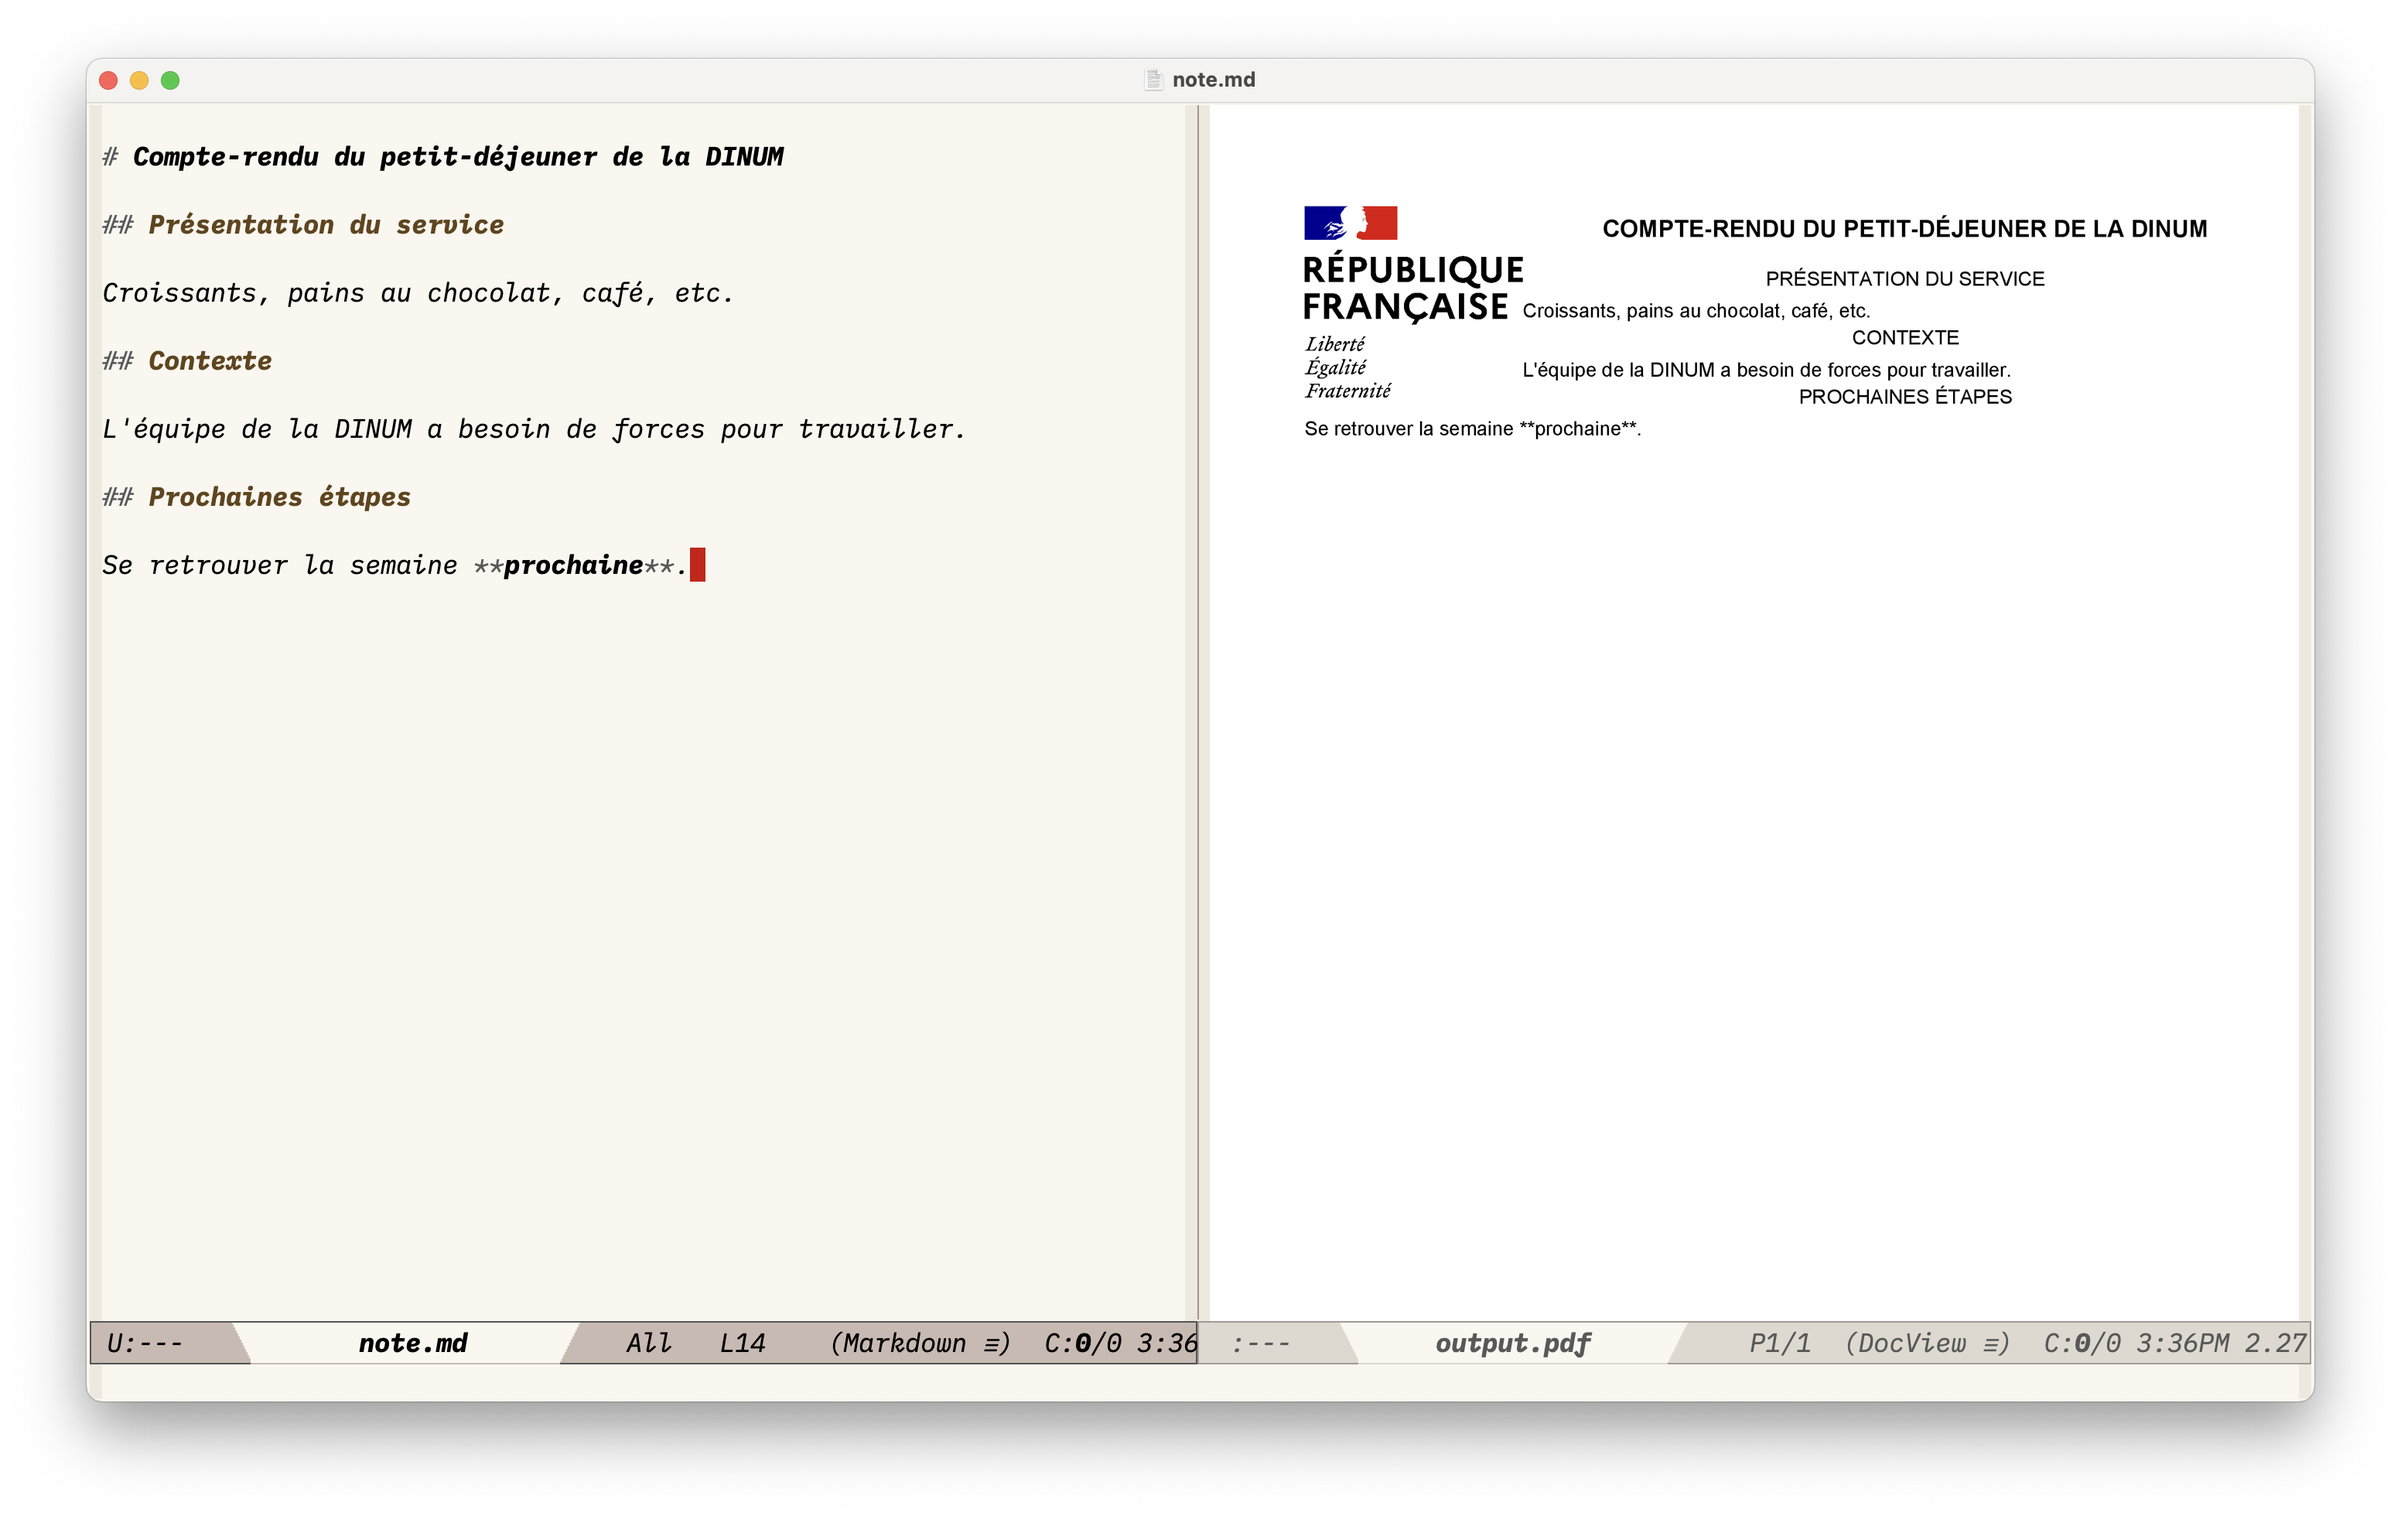
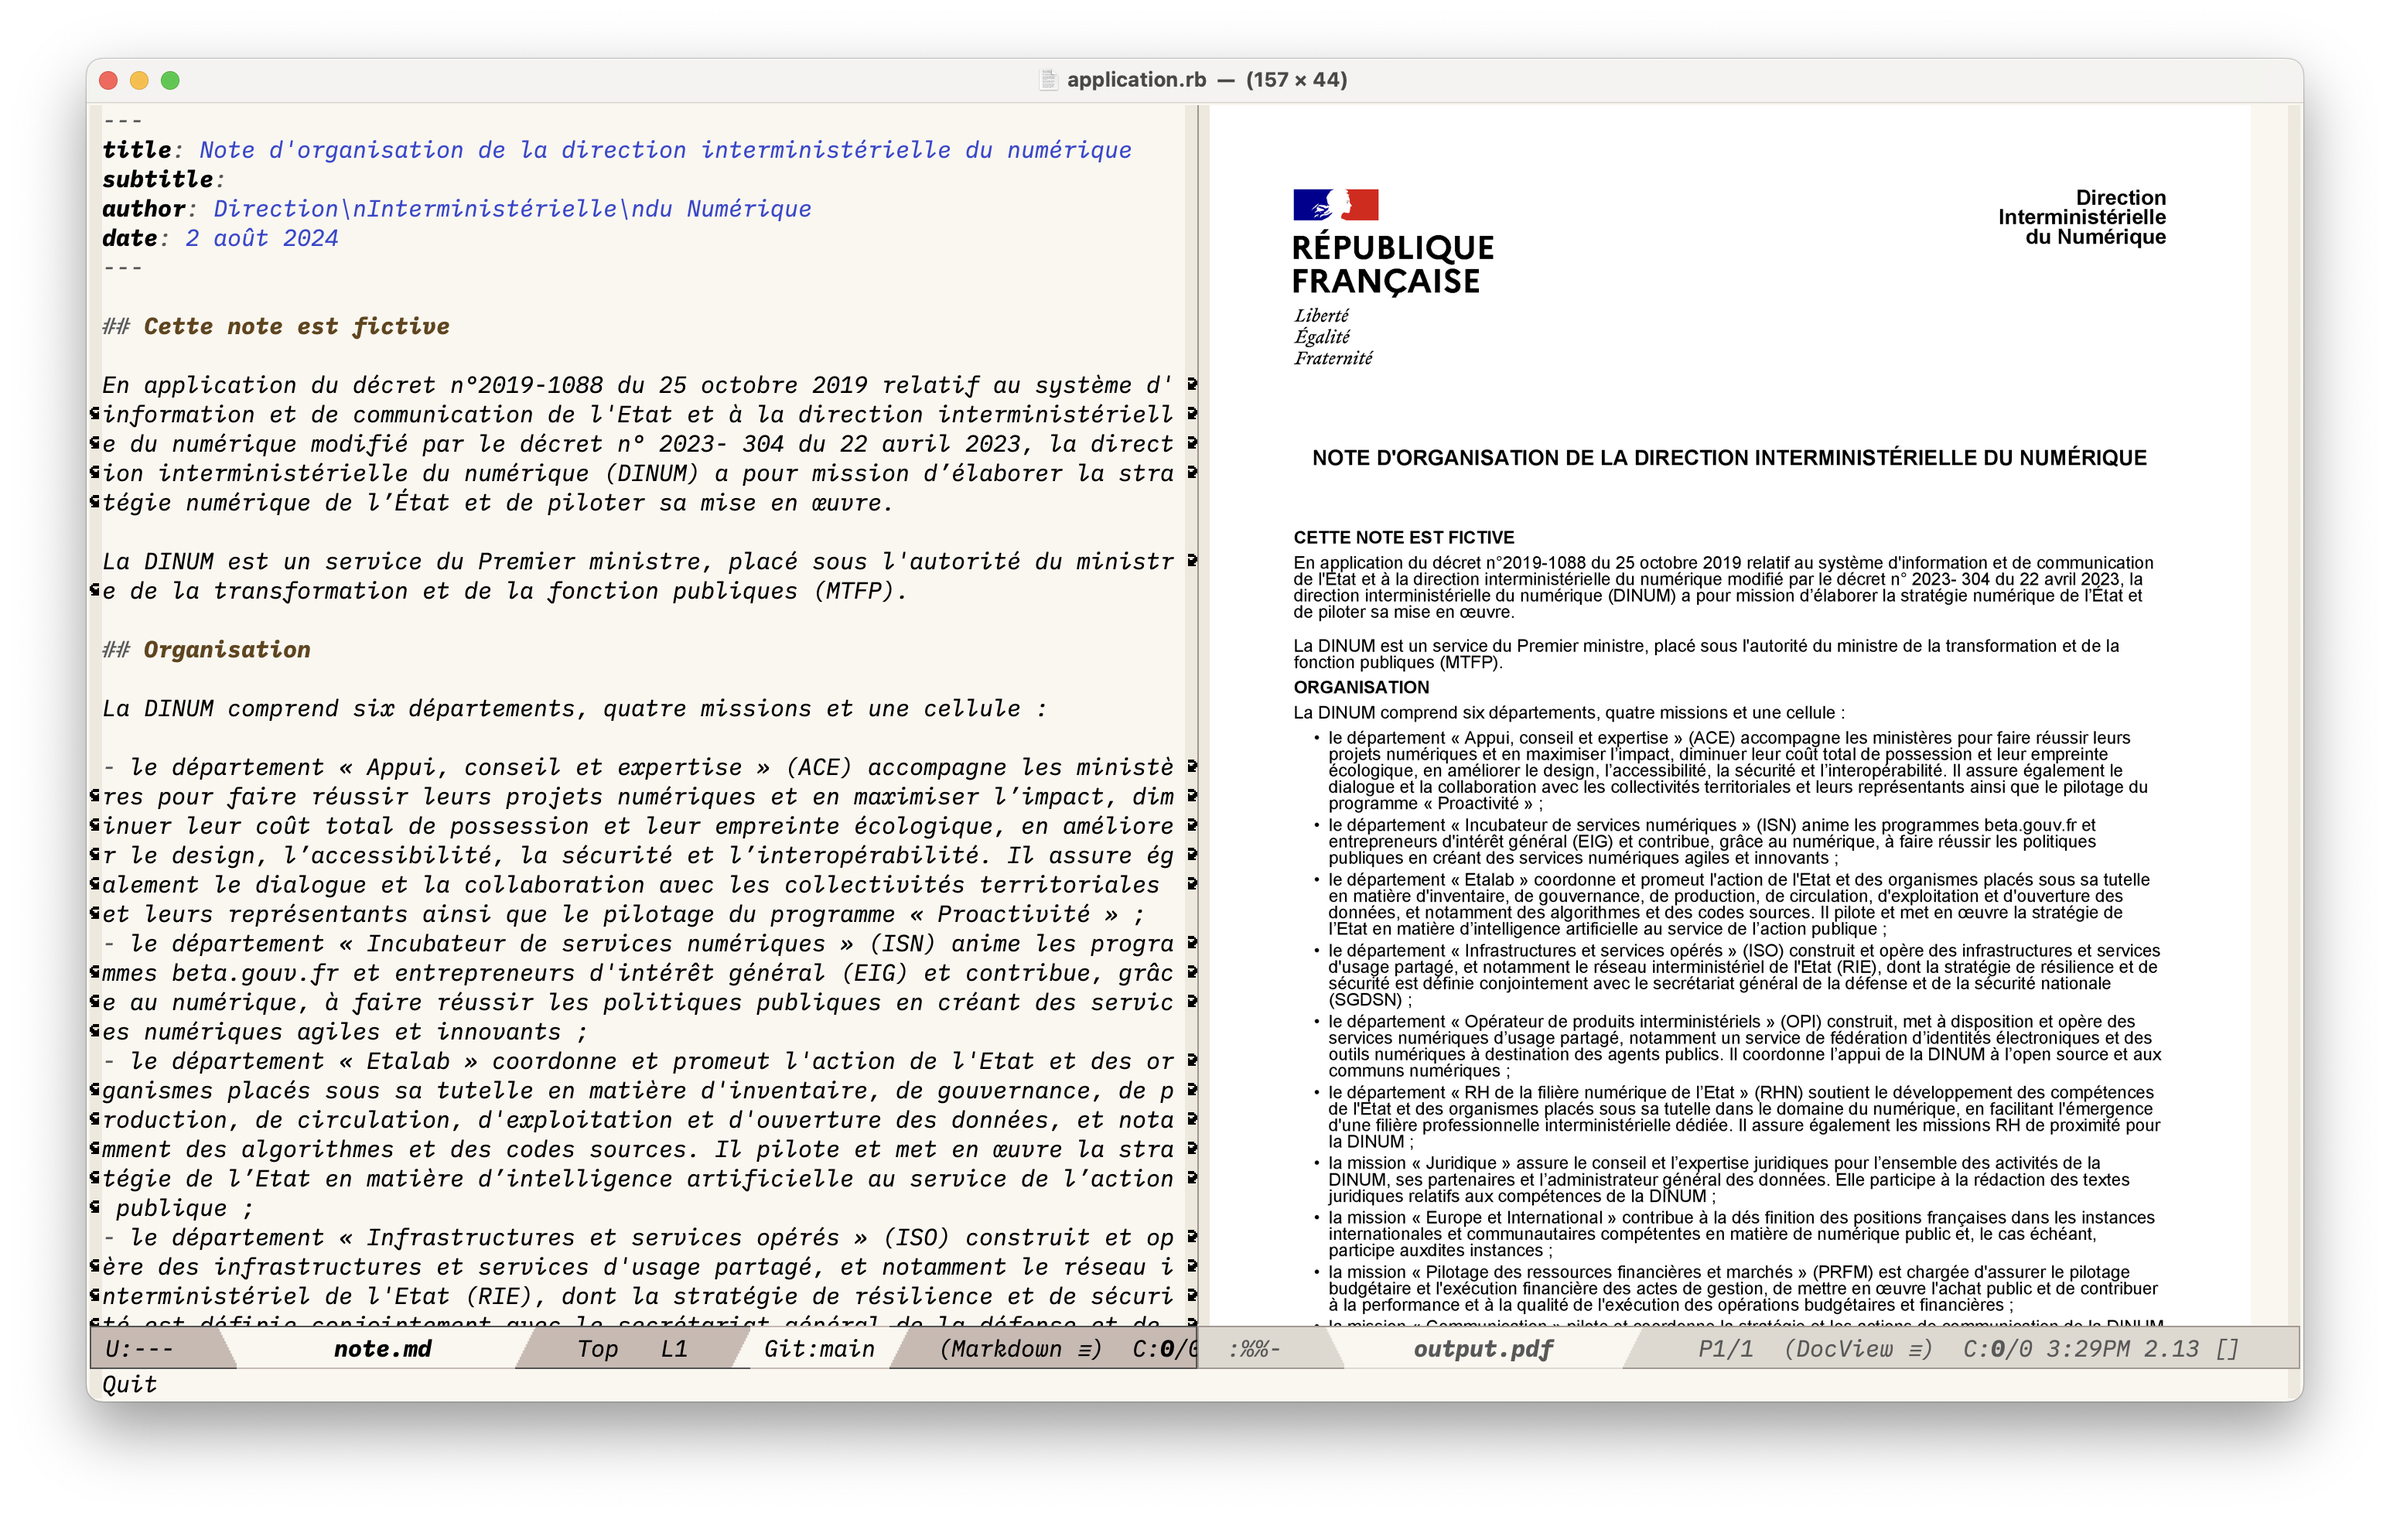
doc: general, random updates

diff --git a/lib/templates/base.rb b/lib/templates/base.rb
@@ -16,19 +16,34 @@ module Paperasse
     def initialize(data)
       @composer = HexaPDF::Composer.new(page_size: :A4, margin: 48)
 
-      @title = data[:title]
-      @subtitle = data[:subtitle]
+      @data = data
+
+      @title = data["title"]
+      @subtitle = data["subtitle"]
 
       setup_fonts!
       setup_style!
 
+      # @composer.document.config['debug'] = true
       super()
     end
 
     def doc_header
-      @composer.image('./logo.png', height: 100, position: :float)
+      @composer.container do |container|
+        container.image('./logo.png', height: 100, style: { mask_mode: :box })
+        container.text(author, text_align: :right, font: ['Arial', { variant: :bold }], font_size: 12)
+      end
+
+      @composer.container(style: { padding: [49, 0, 35, 0] }) do |container|
+        container.text(@title.upcase, style: :title) # don't upcase, style it
+        container.text(@subtitle, style: :subtitle) unless @subtitle.nil?
+      end
 
       nil
+    end
+
+    def author
+      "Direction\nInterministérielle\ndu Numérique"
     end
 
     def header(title, level)
@@ -36,30 +51,20 @@ module Paperasse
       when 1
         @composer.text(title.upcase, style: :title, margin: [150, 0, 0, 0])
       when 2
-        @composer.text(title.upcase, style: :subtitle)
+        @composer.text(title.upcase, style: :paragraph_title)
       end
 
       nil
     end
 
     def list_item(text, _list_type)
-      composer.list { |l| l.text(text) }
-
-      nil
-    end
-
-    def double_emphasis(text)
-      nil
-    end
-
-    def emphasis(text)
-      composer.text(text, style: :bold)
+      composer.list { |l| l.text(text, margin: [3, 0]) }
 
       nil
     end
 
     def paragraph(text)
-      composer.text(text)
+      composer.text(text, style: :base, margin: [5, 0])
 
       nil
     end
@@ -87,8 +92,8 @@ module Paperasse
     # some/path/Arial Bold Italic.tff => :bold_italic
     def infer_variant(filename)
       components = File.basename(filename, '.*')
-                     .split
-                     .slice(1..)
+                       .split
+                       .slice(1..)
 
       return nil if components.empty?
 
@@ -96,11 +101,11 @@ module Paperasse
     end
 
     def setup_style!
-      composer.style(:base, font: 'Arial', font_size: 10, line_spacing: 1.3, last_line_gap: true, padding: [3, 0, 0, 0])
-      composer.style(:title, font: ['Arial', { variant: :bold }], font_size: 12, align: :center, padding: [10, 0])
+      composer.style(:base, font: 'Arial', font_size: 10, last_line_gap: true)
+      composer.style(:title, font: ['Arial', { variant: :bold }], font_size: 12, align: :center)
       composer.style(:direction, font_size: 12, align: :right)
-      composer.style(:subtitle, align: :center, padding: [0, 30], line_height: 12)
-      composer.style(:paragraph_title, font: ['Arial', { variant: :bold }], font_size: 10, margin: [10, 0, 0, 0])
+      composer.style(:subtitle, align: :center, line_height: 12)
+      composer.style(:paragraph_title, font: ['Arial', { variant: :bold }], font_size: 10)
       composer.style(:legal, font: ['Arial', { variant: :italic }])
       composer.style(:bold, font: ['Arial', { variant: :bold }])
     end

diff --git a/note.md b/note.md
@@ -1,19 +1,30 @@
 ---
-title: Le titre du document
-subtitle: Le sous-titre du doc
-author: Marie Curie
+title: Note d'organisation de la direction interministérielle du numérique
+subtitle:
+author: Direction\nInterministérielle\ndu Numérique
+date: 2 août 2024
 ---
 
-# Compte-rendu du petit-déjeuner de la DINUM
+## Cette note est fictive
 
-## Présentation du service
+En application du décret n°2019-1088 du 25 octobre 2019 relatif au système d'information et de communication de l'Etat et à la direction interministérielle du numérique modifié par le décret n° 2023- 304 du 22 avril 2023, la direction interministérielle du numérique (DINUM) a pour mission d’élaborer la stratégie numérique de l’État et de piloter sa mise en œuvre.
 
-Croissants, pains au chocolat, café, etc.
+La DINUM est un service du Premier ministre, placé sous l'autorité du ministre de la transformation et de la fonction publiques (MTFP).
 
-## Contexte
+## Organisation
 
-L'équipe de la DINUM a besoin de forces pour travailler.
+La DINUM comprend six départements, quatre missions et une cellule :
 
-## Prochaines étapes
+- le département « Appui, conseil et expertise » (ACE) accompagne les ministères pour faire réussir leurs projets numériques et en maximiser l’impact, diminuer leur coût total de possession et leur empreinte écologique, en améliorer le design, l’accessibilité, la sécurité et l’interopérabilité. Il assure également le dialogue et la collaboration avec les collectivités territoriales et leurs représentants ainsi que le pilotage du programme « Proactivité » ;
+- le département « Incubateur de services numériques » (ISN) anime les programmes beta.gouv.fr et entrepreneurs d'intérêt général (EIG) et contribue, grâce au numérique, à faire réussir les politiques publiques en créant des services numériques agiles et innovants ;
+- le département « Etalab » coordonne et promeut l'action de l'Etat et des organismes placés sous sa tutelle en matière d'inventaire, de gouvernance, de production, de circulation, d'exploitation et d'ouverture des données, et notamment des algorithmes et des codes sources. Il pilote et met en œuvre la stratégie de l’Etat en matière d’intelligence artificielle au service de l’action publique ;
+- le département « Infrastructures et services opérés » (ISO) construit et opère des infrastructures et services d'usage partagé, et notamment le réseau interministériel de l'Etat (RIE), dont la stratégie de résilience et de sécurité est définie conjointement avec le secrétariat général de la défense et de la sécurité nationale (SGDSN) ;
+- le département « Opérateur de produits interministériels » (OPI) construit, met à disposition et opère des services numériques d’usage partagé, notamment un service de fédération d’identités électroniques et des outils numériques à destination des agents publics. Il coordonne l’appui de la DINUM à l’open source et aux communs numériques ;
+- le département « RH de la filière numérique de l’Etat » (RHN) soutient le développement des compétences de l'Etat et des organismes placés sous sa tutelle dans le domaine du numérique, en facilitant l'émergence d'une filière professionnelle interministérielle dédiée. Il assure également les missions RH de proximité pour la DINUM ;
+- la mission « Juridique » assure le conseil et l’expertise juridiques pour l’ensemble des activités de la DINUM, ses partenaires et l’administrateur général des données. Elle participe à la rédaction des textes juridiques relatifs aux compétences de la DINUM ;
+- la mission « Europe et International » contribue à la dés finition des positions françaises dans les instances internationales et communautaires compétentes en matière de numérique public et, le cas échéant, participe auxdites instances ;
+- la mission « Pilotage des ressources financières et marchés » (PRFM) est chargée d'assurer le pilotage budgétaire et l'exécution financière des actes de gestion, de mettre en œuvre l'achat public et de contribuer à la performance et à la qualité de l'exécution des opérations budgétaires et financières ;
+- la mission « Communication » pilote et coordonne la stratégie et les actions de communication de la DINUM ;
+- la cellule « Cyber » organise l’action de la DINUM en matière de gouvernance de la sécurité des systèmes d’information (SSI), d’anticipation, de détection des événements de sécurité et des réponses à y apporter en lien étroit avec les départements en charge des opérations.  La direction de la DINUM est appuyée par un secrétariat et un cabinet, chargés notamment de la fluidification des échanges, des partenariats et de l’appui à l’ensemble des missions et départements de la DINUM.
 
-Se retrouver la semaine **prochaine**.
+– tmtc
